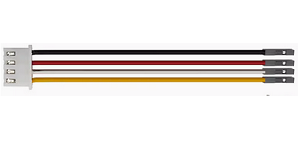
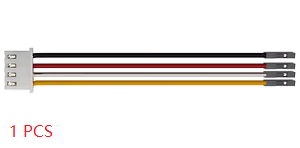
init

Changed region(s): [[0.0, 0.2973, 0.99, 0.6216], [0.03, 0.8378, 0.18, 0.9459], [0.87, 0.6216, 0.9, 0.6486]]

diff --git a/docs/source/common_product/C1K0001_4x4x4led_cube_kit/C1K0001_4x4x4led_cube_kit.md b/docs/source/common_product/C1K0001_4x4x4led_cube_kit/C1K0001_4x4x4led_cube_kit.md
@@ -14,10 +14,10 @@ This is a very interesting light cube that can be used for learning programming 
 6. Dimensions: ?*?*?mm  
 
 ## List
-| cube |      |      |      |
+| PCB cube | Acrylic cube | HX-2.54 4P to male duport wire | HX-2.54 4P to female duport wire |
 | :--: | :--: | :--: | :--: |
-| ![Img](../../_static/common_product/C1K0001_4x4x4led_cube_kit/29img.png) | ![Img](../../_static/common_product/C1K0001_4x4x4led_cube_kit/30img.png) |      | ![Img](../../_static/common_product/C1K0001_4x4x4led_cube_kit/28img.png) |    
-| | M3\*8mm flat-head screw | M3 nuts |  |    
+| ![Img](../../_static/common_product/C1K0001_4x4x4led_cube_kit/29img.png) | ![Img](../../_static/common_product/C1K0001_4x4x4led_cube_kit/30img.png) | ![Img](../../_static/common_product/C1K0001_4x4x4led_cube_kit/31img.png) | ![Img](../../_static/common_product/C1K0001_4x4x4led_cube_kit/28img.png) |    
+| HX-2.54 4P duport wire | M3\*8mm flat-head screw | M3 nuts |  |    
 | ![Img](../../_static/common_product/C1K0001_4x4x4led_cube_kit/27img.png) | ![Img](../../_static/common_product/C1K0001_4x4x4led_cube_kit/25img.png) | ![Img](../../_static/common_product/C1K0001_4x4x4led_cube_kit/26img.png) |  |   
 
 ## Installation steps        
